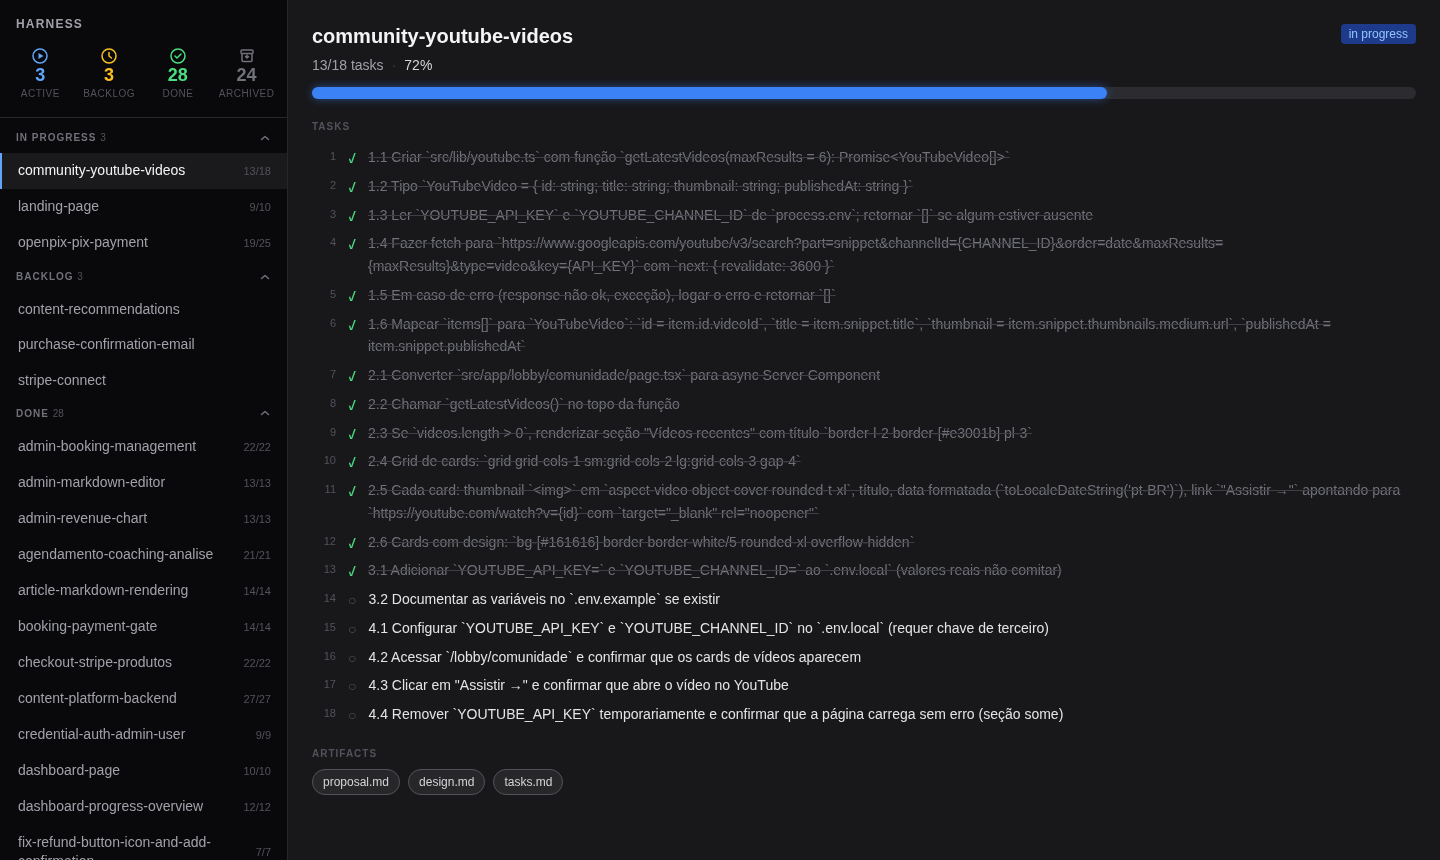
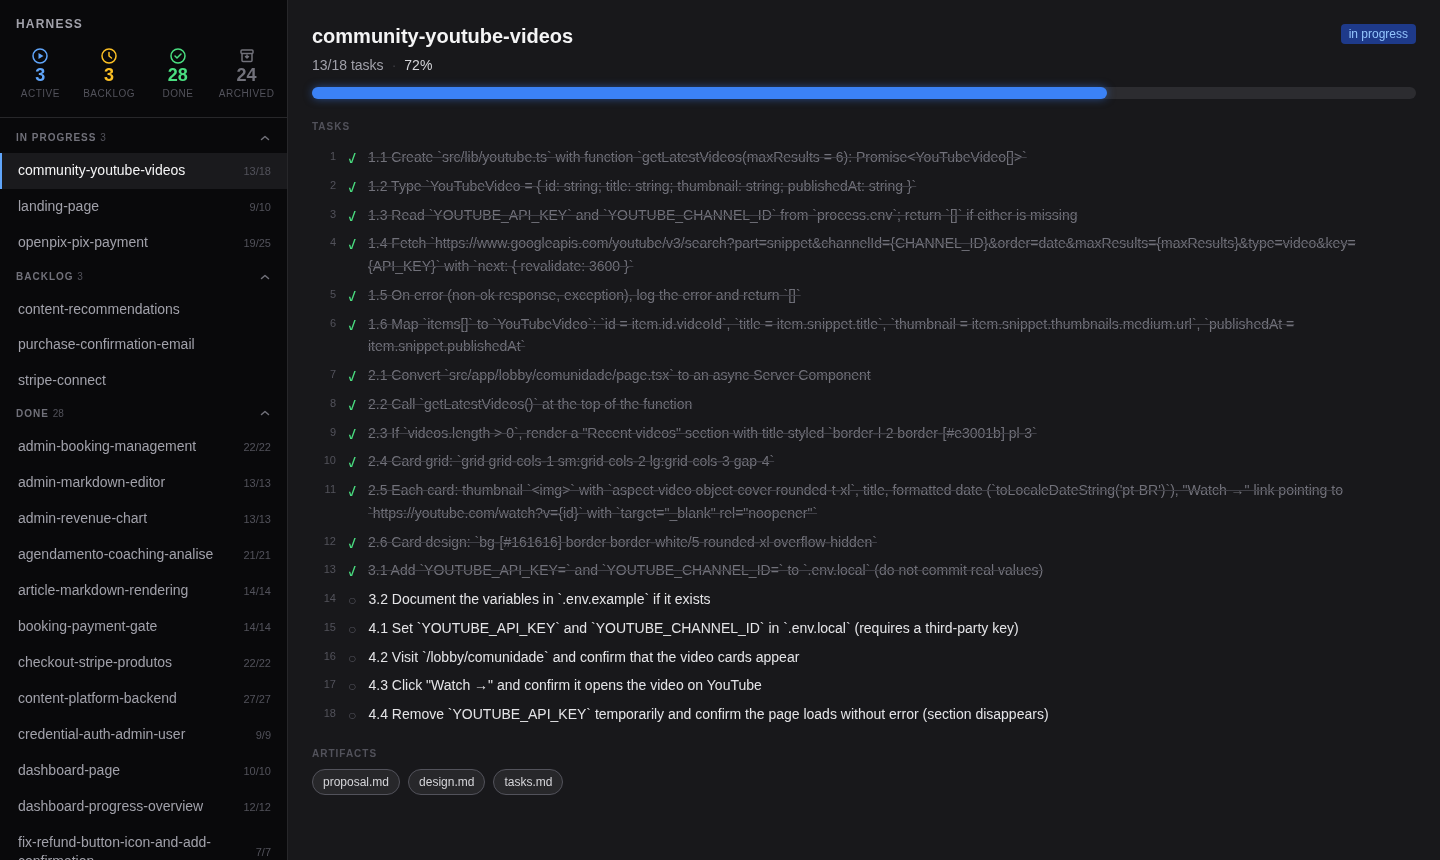
docs: update README with new screenshot and improved copy

Changed region(s): [[0.2812, 0.4233, 0.9688, 0.8465], [0.25, 0.1814, 0.9375, 0.393], [0.6875, 0.6349, 0.7188, 0.6651]]

diff --git a/README.md b/README.md
@@ -1,70 +1,70 @@
 # Harness
 
-**A local dashboard for Specification-Driven Development projects.**
+**A local dashboard for projects that use Specification-Driven Development.**
 
-Harness reads your `changes/` directory and gives you a real-time view of every spec in flight — what's in progress, what's backlog, what's done. No database, no cloud, no config required.
+Harness reads your `changes/` directory and shows you a real-time view of every spec — what's in progress, what's waiting, what's done. No database, no cloud, no setup.
 
-```
-npx harness
+```bash
+npx harness-admin
 ```
 
 ---
 
-## What it looks like
+## Screenshots
 
-### Browser (default)
-
-> Sidebar grouped by status · progress fractions · live WebSocket updates · resizable panel
+### Browser
 
 ![Harness board](docs/board.png)
 
-### Terminal (`--tui`)
+*Sidebar grouped by status · resizable panel · task-level progress · live updates over WebSocket*
+
+### Terminal
 
 ```
- HARNESS                      ┌───────────────────────────────────────────────┐
-                              │  community-youtube-videos  [ in progress ]     │
- ── IN PROGRESS (3) ──        │                                                │
- ▶ community-youtube-videos   │  █████████████████████░░░░░░  13/18  72%      │
-   landing-page               │                                                │
-   openpix-pix-payment        │  Tasks                                         │
-                              │  ✓  1. 1.1 Create youtube.ts lib               │
- ── BACKLOG (3) ──            │  ✓  2. 1.2 YouTubeVideo type                   │
-   content-recommendations    │  ✓  3. 1.3 Read env vars                       │
-   purchase-confirmation      │  ○  4. 3.2 Document .env.example               │
-   stripe-connect             │  ○  5. 4.1 Configure API key in staging        │
-                              │                                                │
- ── DONE (28) ──              │  proposal.md  design.md  tasks.md              │
-   admin-booking-management   │                                                │
-   ...                        └───────────────────────────────────────────────┘
-                              ┌───────────────────────────────────────────────┐
- ── ARCHIVED (24) ▸           │  ↑↓/jk move · a toggle archived · q quit      │
-                              └───────────────────────────────────────────────┘
+ HARNESS                      ┌────────────────────────────────────────────────┐
+                              │  community-youtube-videos  [ in progress ]      │
+ ── IN PROGRESS (3) ──        │                                                 │
+ ▶ community-youtube-videos   │  █████████████████████░░░░░░  13/18  72%       │
+   landing-page               │                                                 │
+   openpix-pix-payment        │  Tasks                                          │
+                              │   ✓  1. Create youtube.ts with fetch helper     │
+ ── BACKLOG (3) ──            │   ✓  2. Define YouTubeVideo type                │
+   content-recommendations    │   ✓  3. Read env vars                           │
+   purchase-confirmation      │   ○  4. Document variables in .env.example      │
+   stripe-connect             │   ○  5. Configure API key in staging            │
+                              │                                                 │
+ ── DONE (28) ──              │  proposal.md  design.md  tasks.md               │
+   admin-booking-management   │                                                 │
+   ...                        └─────────────────────────────────────────────────┘
+                              ┌─────────────────────────────────────────────────┐
+ ── ARCHIVED (24) ▸           │  ↑↓/jk move · a toggle archived · q quit        │
+                              └─────────────────────────────────────────────────┘
 ```
+
+*Grouped sections · ASCII progress bar · keyboard navigation · no server required*
 
 ---
 
 ## Installation
 
-**Run without installing (recommended):**
+**Run without installing:**
 
 ```bash
-npx harness
+npx harness-admin
 ```
 
-**Or install globally:**
+**Install globally:**
 
 ```bash
-npm install -g harness
+npm install -g harness-admin
 harness
 ```
 
-**Or as a dev dependency:**
+**Install as a dev dependency:**
 
 ```bash
-npm install -D harness
+npm install -D harness-admin
 ```
-
-Then add to `package.json`:
 
 ```json
 {
@@ -79,74 +79,69 @@ Then add to `package.json`:
 ## Usage
 
 ```bash
-# Open browser dashboard (default)
+# Open the browser dashboard (default)
 harness
 
-# Open terminal UI
+# Open the terminal UI instead
 harness --tui
 
-# Point to a different project root
-harness /path/to/project
-
 # Use a custom config file
-harness --config ./my-harness.config.json
+harness --config ./harness.config.json
 ```
 
-When you run `harness`, it prints the URL and opens your browser:
+Running `harness` starts a local server, prints the URL, and opens your browser:
 
 ```
   harness  http://localhost:3000
 ```
 
-With `--tui`, it stays in the terminal:
+With `--tui` it stays in the terminal:
 
 ```
   harness  running at http://localhost:3000
-
-  [TUI launches]
 ```
 
 ---
 
 ## How it works
 
-Harness scans `openspec/changes/` (configurable) for subdirectories. Each subdirectory is a **change** — a unit of work tracked by markdown files. Harness derives its status from the `tasks.md` file:
+Harness scans `openspec/changes/` for subdirectories. Each subdirectory is a **change** — a unit of work with a `tasks.md` checklist. Status is derived automatically:
 
 | Status | Condition |
 |---|---|
-| `in progress` | at least one `[x]` and at least one `[ ]` |
-| `done` | all tasks marked `[x]` |
-| `backlog` | no `tasks.md`, or zero checked tasks |
+| `in progress` | at least one `[x]` and at least one `[ ]` task |
+| `done` | every task marked `[x]` |
+| `backlog` | no `tasks.md`, or no tasks checked yet |
 | `archived` | lives inside the archive directory |
 
-Changes are watched in real time via `chokidar`. The browser board updates over WebSocket — no refresh needed.
+The file system is the source of truth. Harness watches it with `chokidar` and pushes updates to the browser over WebSocket — no manual refresh needed.
 
 ---
 
-## Convention
+## Directory convention
 
-Harness works with **any project** that follows this directory shape:
+Harness works with any project that follows this shape:
 
 ```
 your-project/
 └── openspec/
     └── changes/
-        ├── feature-name/
-        │   ├── proposal.md
-        │   ├── design.md
-        │   └── tasks.md        ← checked with [x] / [ ]
+        ├── my-feature/
+        │   ├── proposal.md   ← what and why
+        │   ├── design.md     ← how
+        │   └── tasks.md      ← [ ] / [x] checklist
         └── archive/
-            └── finished-feature/
+            └── shipped-feature/
                 └── tasks.md
 ```
 
-No framework required. Works with [OpenSpec](https://github.com/your-org/openspec), manual SDD workflows, or any convention that follows this shape.
+No framework required. Works with [OpenSpec](https://github.com/davicanuto/openspec), hand-rolled SDD workflows, or anything that follows this layout.
 
 ---
 
 ## Configuration
 
-Harness works with zero config for OpenSpec projects. To customize, create `harness.config.json` at your project root:
+Zero config needed for OpenSpec projects. To customize, create `harness.config.json` at your project root:
 
 ```json
 {
@@ -159,55 +154,55 @@ Harness works with zero config for OpenSpec projects. To customize, create `harn
 }
 ```
 
-All fields are optional — defaults shown above.
+All fields are optional — the values above are the defaults.
 
 ---
 
-## Monorepo
+## Package structure
 
 ```
 packages/
-├── parser/   Core: reads filesystem, parses tasks.md, classifies status, watches for changes
-├── server/   Local Fastify server — GET /api/changes, WebSocket /ws
-├── board/    Browser SPA — Vite + React + Tailwind
-├── tui/      Terminal UI — Ink + React
-└── cli/      npx entry point — wires everything together
+├── parser/   Reads the filesystem, parses tasks.md, classifies status, watches for changes
+├── server/   Local Fastify server — GET /api/changes, WebSocket /ws, serves the board SPA
+├── board/    Browser dashboard — Vite + React + Tailwind CSS
+├── tui/      Terminal UI — Ink + React, reads filesystem directly
+└── cli/      Entry point published to npm — wires everything together
 ```
 
 ---
 
 ## Roadmap
 
-- [ ] **Archive action** — archive a change directly from the board
-- [ ] **Claude integration** — chat with context of `proposal.md` + `design.md` + `tasks.md` pre-loaded
+- [ ] **Archive action** — archive a change directly from the board without touching the CLI
+- [ ] **Claude integration** — open a chat with `proposal.md` + `design.md` + `tasks.md` pre-loaded as context
 - [ ] **Apply by task** — delegate a specific task to Claude from the UI
-- [ ] **Multi-repo** — point to multiple projects, consolidated dashboard
-- [ ] **SDD actions in UI** — `/propose`, `/apply`, `/archive` without leaving the browser
+- [ ] **Multi-repo dashboard** — point to multiple projects and see a consolidated view
+- [ ] **SDD actions in UI** — run `/propose`, `/apply`, `/archive` without leaving the browser
 
 ---
 
 ## Contributing
 
 ```bash
-git clone https://github.com/your-org/harness
-cd harness
+git clone https://github.com/davicanuto/harness-admin
+cd harness-admin
 pnpm install
 pnpm build
 ```
 
-To run against a local SDD project:
+To develop against a local project:
 
 ```bash
-# Start the server pointing at your project
+# Terminal 1 — start the API server pointing at your project
 cd /path/to/your-project
-node /path/to/harness/packages/cli/dist/index.js
+node /path/to/harness-admin/packages/cli/dist/index.js
 
-# Or run the board dev server + server separately
-pnpm --filter @harness/server dev
-pnpm --filter @harness/board dev
+# Terminal 2 — start the board dev server with hot reload
+cd /path/to/harness-admin/packages/board
+pnpm dev
 ```
 
-Every feature goes through an OpenSpec change (`openspec/changes/`). See `AGENTS.md` for the workflow.
+Every change to Harness itself goes through an OpenSpec change in `openspec/changes/`. See `AGENTS.md` for the workflow.
 
 ---
 
